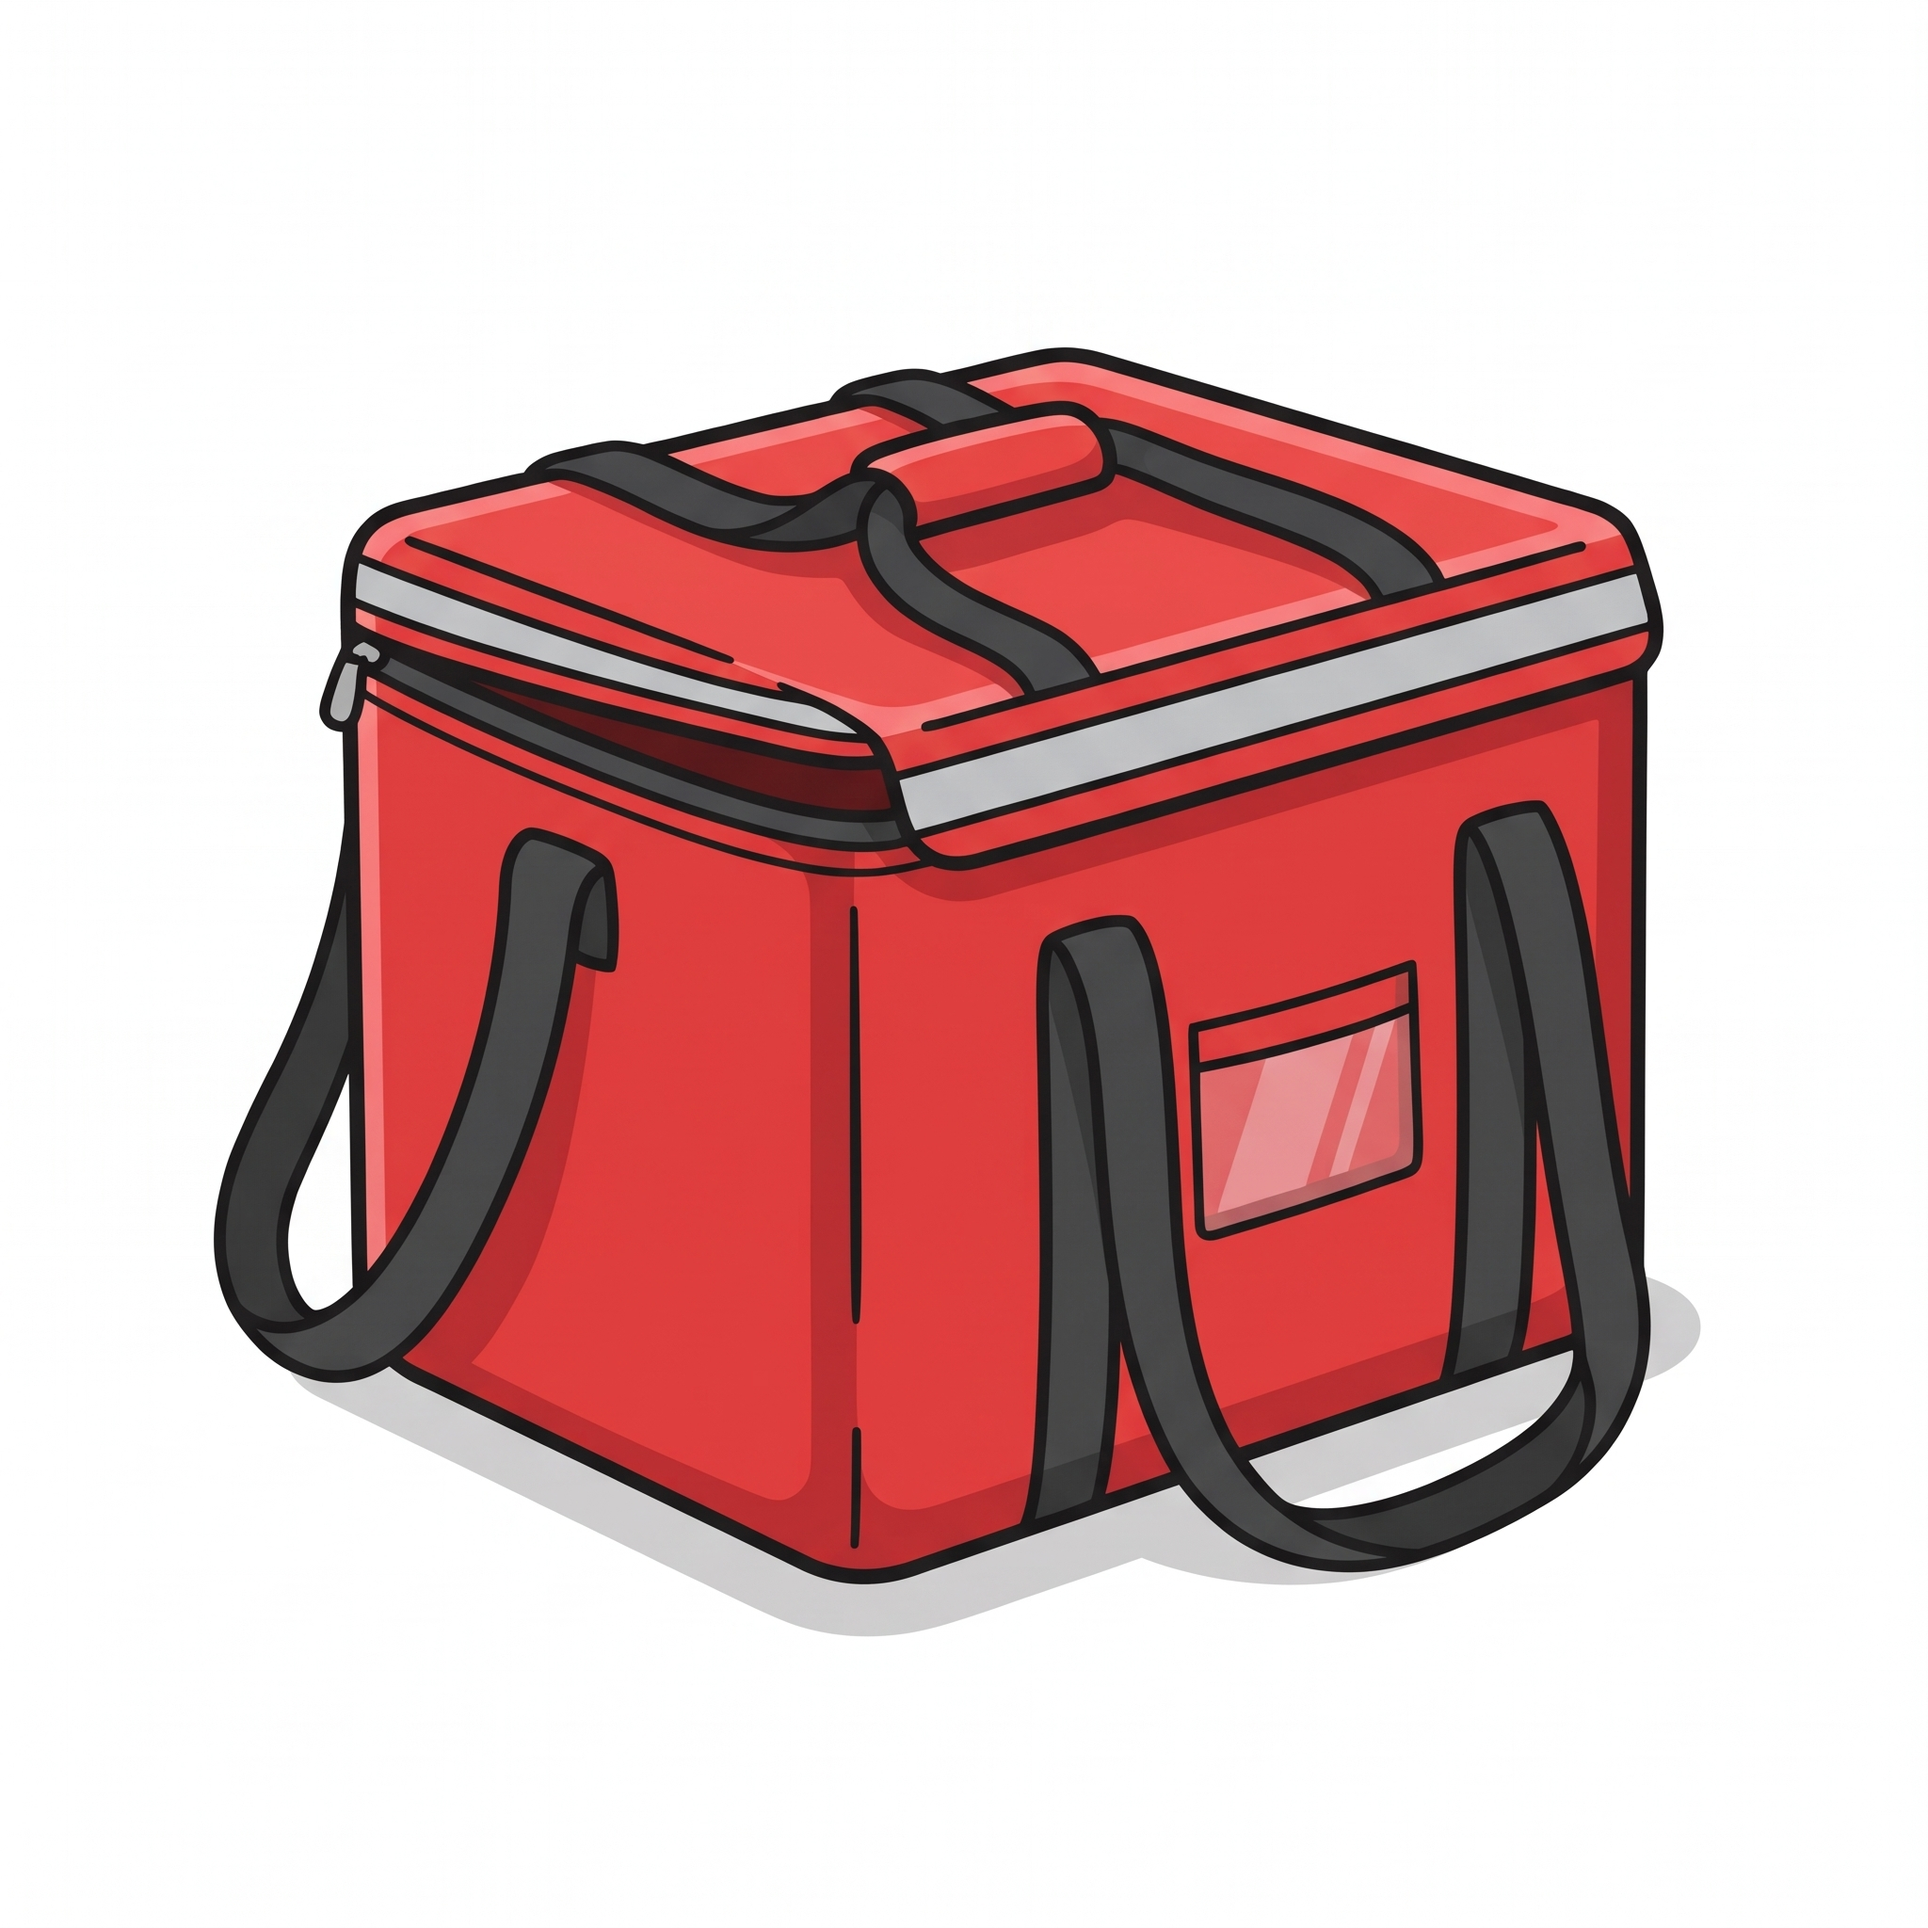
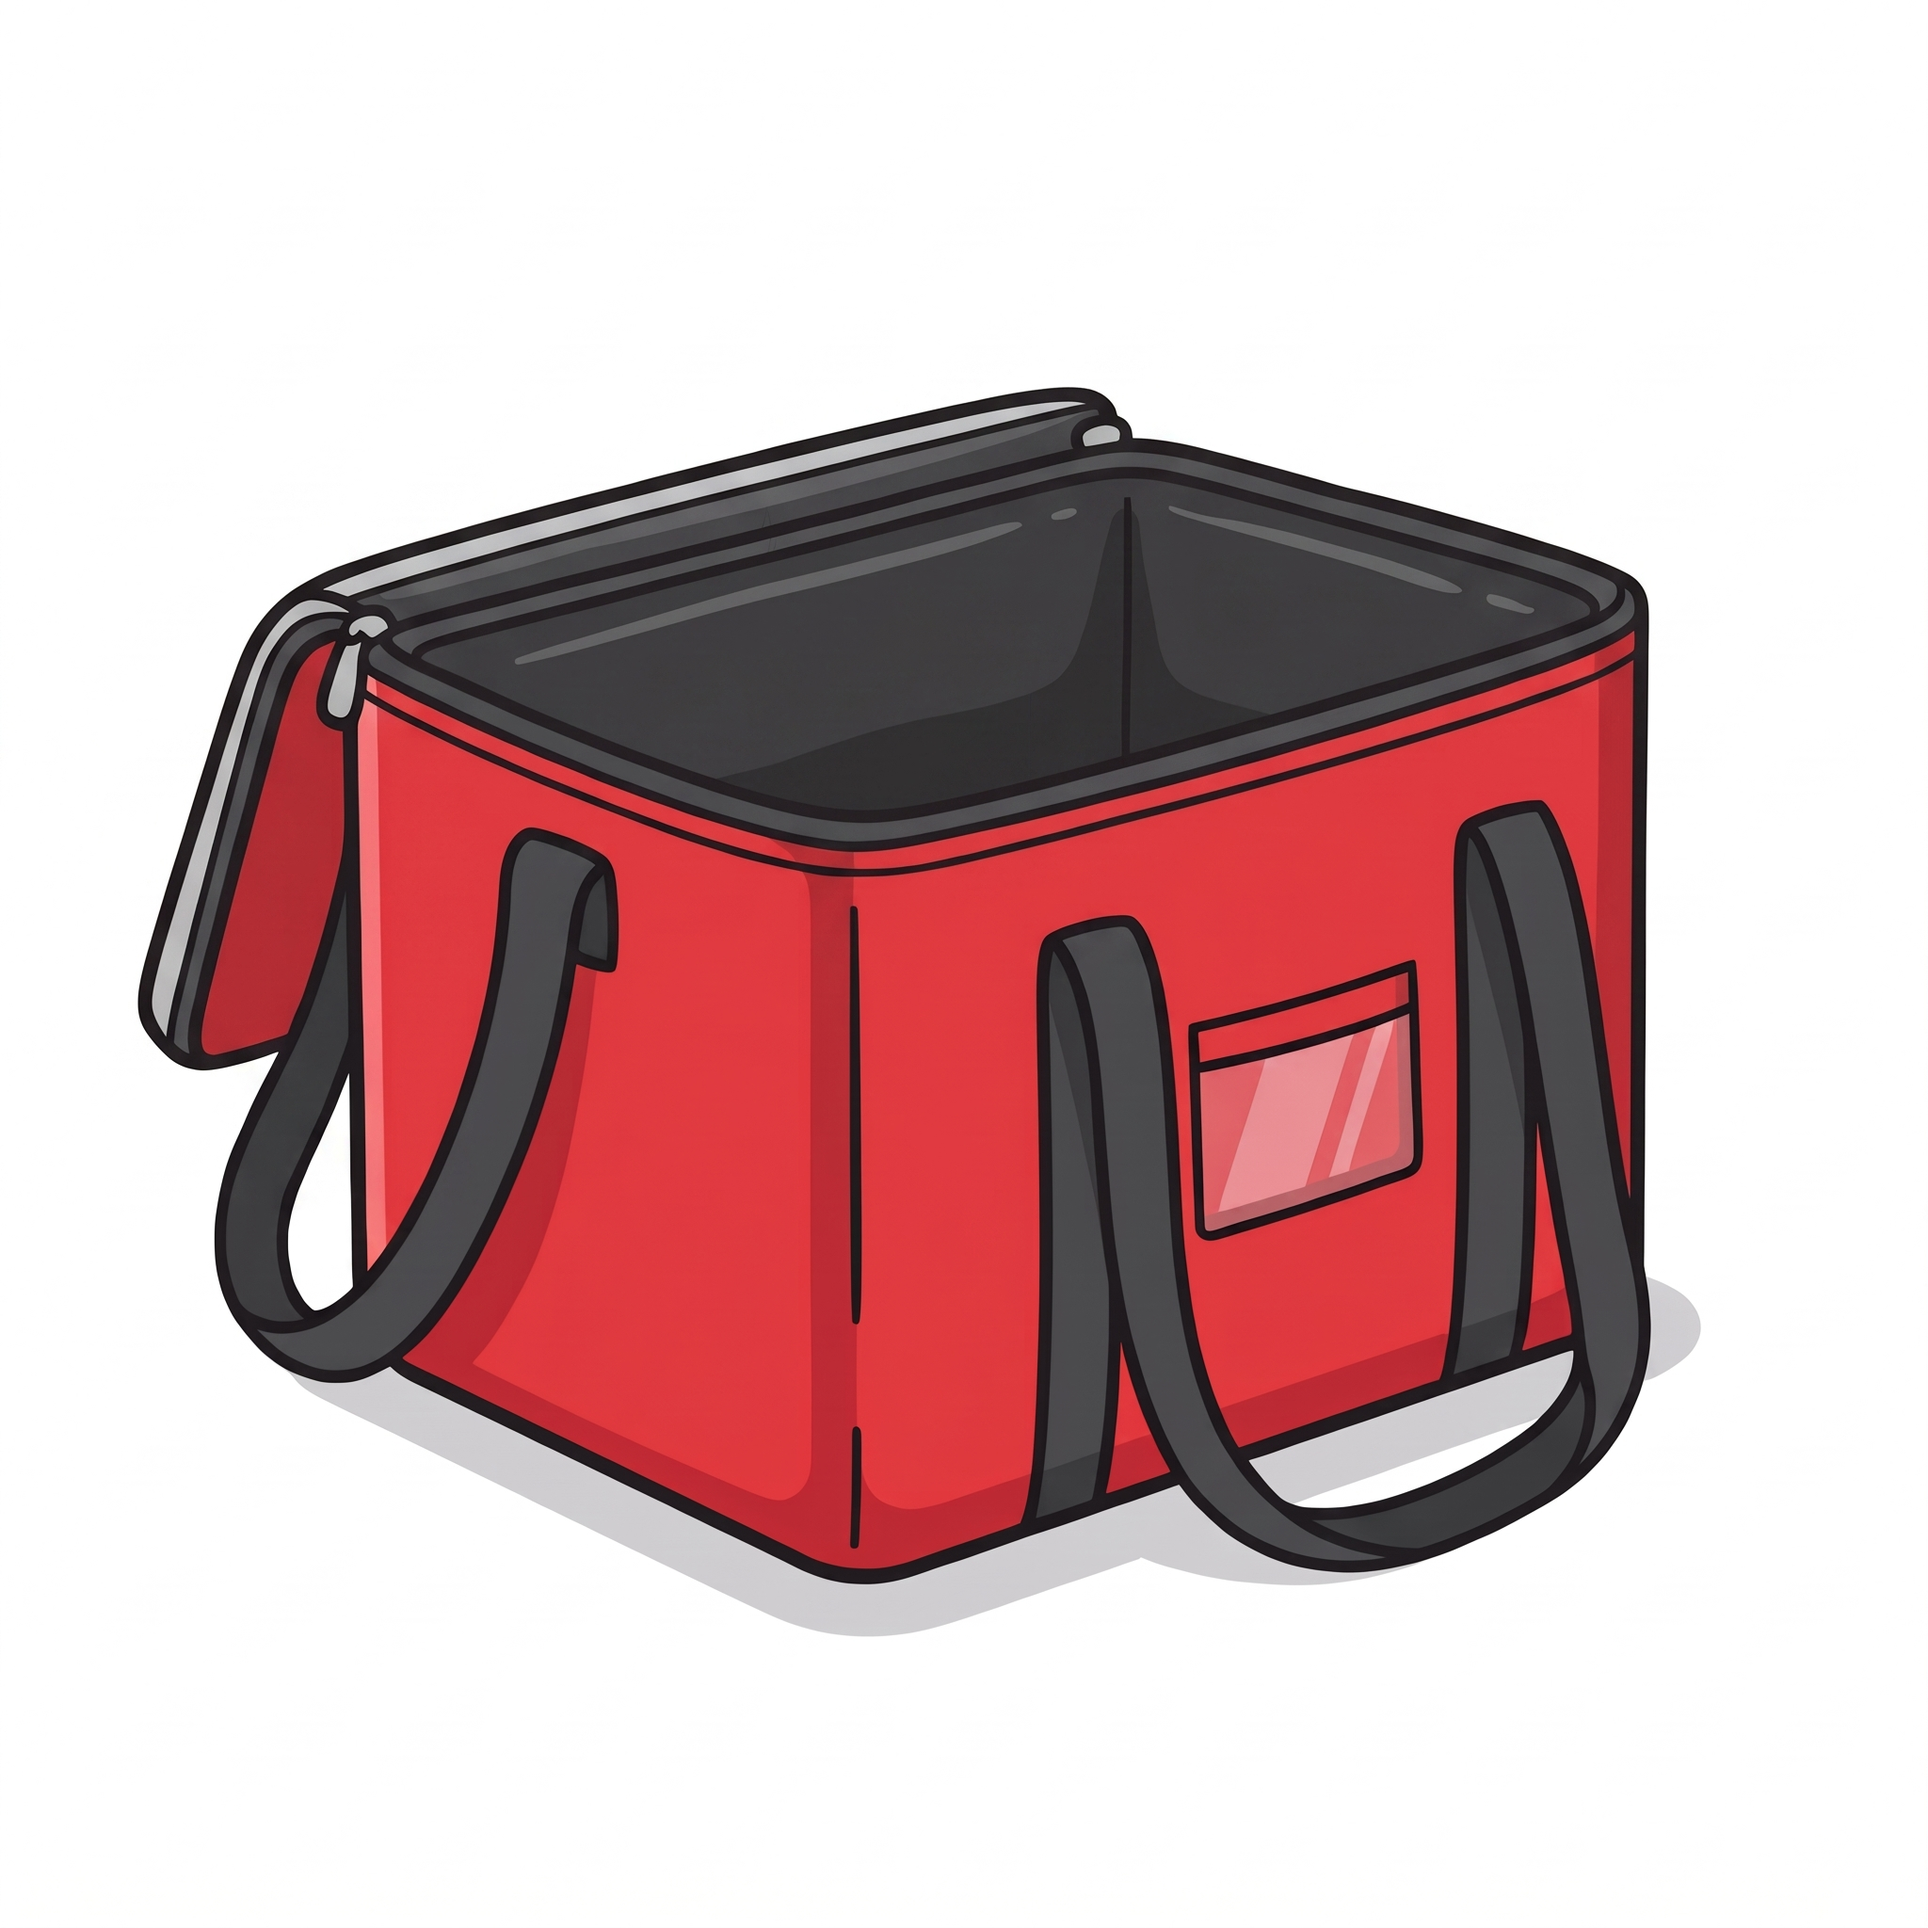
add styling to status

Changed region(s): [[0.0625, 0.1562, 0.875, 0.5625]]

diff --git a/styles.css b/styles.css
@@ -168,9 +168,13 @@ input[type="file"] {
   background-color: #fce8e9;
 }
 #status {
-  margin-top: 12px;
-  color: #6b7280;
-  font-size: 14px;
+  margin-top: 16px;
+  color: var(--pj-dark);
+  font-size: 16px;
+  font-weight: bold;
+  text-align: center;
+  letter-spacing: 0.3px;
+  transition: color 0.2s ease;
 }
 
 /* Standard Buttons */
@@ -350,8 +354,6 @@ li {
   width: clamp(140px, 20vw, 220px);
   height: auto;
   margin-bottom: 24px;
-  opacity: 0.6;
-  filter: grayscale(100%);
   mix-blend-mode: multiply;
 }
 
@@ -419,6 +421,6 @@ li {
     margin-top: 12px;
   }
   #status {
-    margin-top: 8px;
+    margin-top: 20px;
   }
 }
